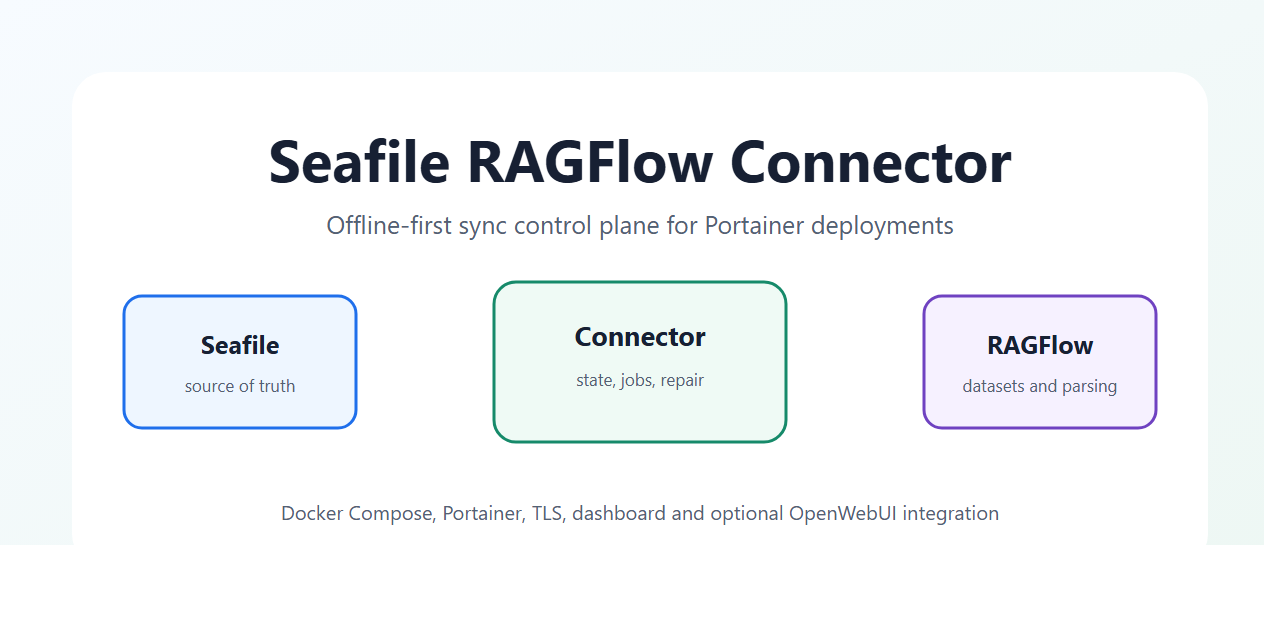
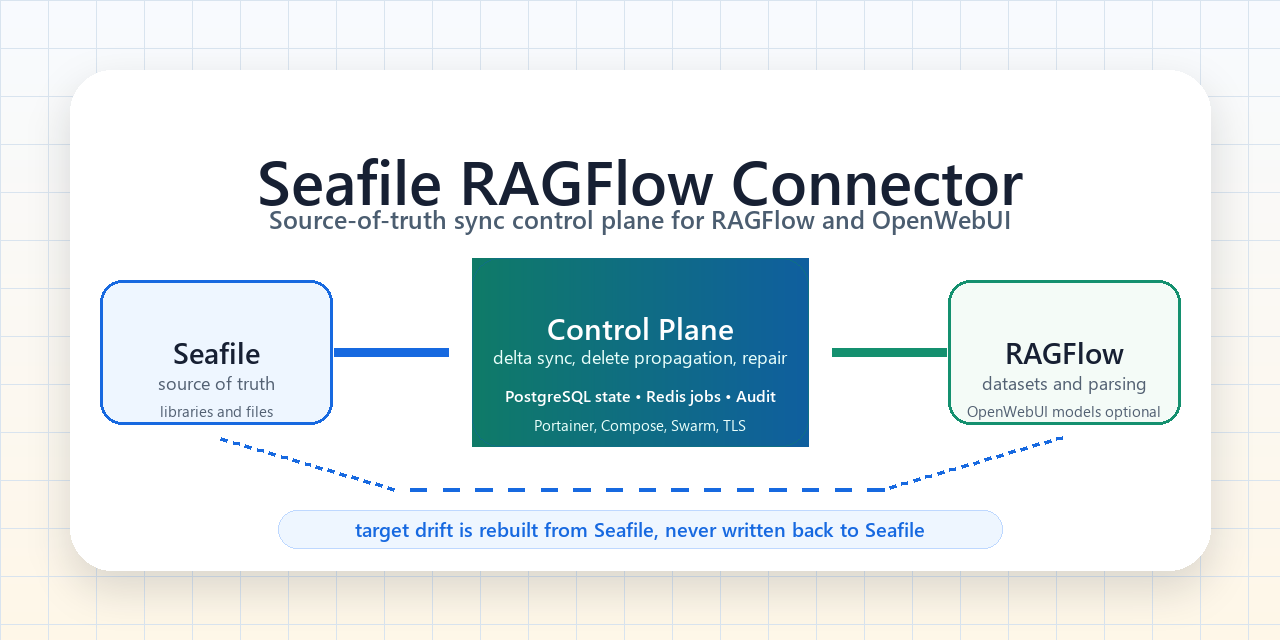
Schaerfe README und Projektvisualisierung

diff --git a/README.md b/README.md
@@ -5,7 +5,8 @@
 <h1 align="center">Seafile RAGFlow Connector</h1>
 
 <p align="center">
-  Offline-fähiger Sync-Orchestrator für bestehende Seafile-, RAGFlow- und optionale OpenWebUI-Umgebungen.
+  Aus Seafile-Libraries werden reproduzierbare RAGFlow-Datasets und optional OpenWebUI Custom Models:
+  mit Delta-Sync, Delete-Propagation, Drift-Repair, TLS, Audit und Portainer-tauglichem Betrieb.
 </p>
 
 <p align="center">
@@ -20,17 +21,17 @@
 
 ## Überblick
 
-Der Seafile RAGFlow Connector betreibt eine eigene Control Plane zwischen einem
-bestehenden Seafile-Server und einem bestehenden RAGFlow-Server. Seafile bleibt
-die Quelle der Wahrheit. Der Connector entdeckt Libraries, erzeugt pro Library
-ein RAGFlow-Dataset aus einem `connector_template`, importiert Dateien, erkennt
-Änderungen, löscht entfernte Zielartefakte kontrolliert und repariert Drift aus
-Seafile heraus.
+Der Connector ist keine dünne Upload-Schleife. Er ist eine eigenständige
+Sync-Control-Plane für Umgebungen, in denen Seafile die Dokumentenquelle bleibt
+und RAGFlow daraus zuverlässig nutzbare Knowledge-Datasets bekommt.
 
-Optional synchronisiert der Connector RAGFlow-Chats, OpenWebUI-Tools und
-OpenWebUI-Pipes, damit RAGFlow-Datasets in OpenWebUI als Custom Models genutzt
-werden können. Seafile, RAGFlow und OpenWebUI werden dabei nicht ersetzt,
-sondern als externe Systeme angebunden.
+Für jede Seafile-Library kann der Connector ein RAGFlow-Dataset aus einem
+Template erzeugen, Dateien inkrementell importieren, entfernte Dateien und
+Libraries kontrolliert in den Zielsystemen nachvollziehen und verlorene oder
+extern gelöschte Zielartefakte wieder aus Seafile aufbauen. OpenWebUI kann
+additiv angebunden werden: pro Dataset entstehen deterministische RAGFlow-Chats,
+Tools und Pipes, sodass die Inhalte als Custom Models nutzbar werden, ohne
+RAGFlow-Secrets in OpenWebUI-Funktionen abzulegen.
 
 ## Quick Links
 
@@ -44,25 +45,32 @@ sondern als externe Systeme angebunden.
 | Entwicklung | [Entwicklungschecks](#entwicklung) und [Tests](docs/testing.md) |
 | Mitarbeit | [CONTRIBUTING.md](CONTRIBUTING.md), [Security Policy](SECURITY.md), [Support](SUPPORT.md) |
 
-## Kernprinzipien
+## Was dieses Repository besonders macht
 
-- Die Seafile API ist die Quelle der Wahrheit.
-- Die RAGFlow API und optional OpenWebUI sind Zielsysteme.
-- Seafile wird nie geändert, nur weil Zielartefakte in RAGFlow oder OpenWebUI fehlen, gelöscht wurden oder driften.
-- Entfernte Seafile-Dateien und -Libraries werden in den Zielsystemen nachvollzogen.
-- Extern gelöschte RAGFlow- oder OpenWebUI-Artefakte werden aus Seafile und dem lokalen Connector-State repariert.
-- PostgreSQL speichert den dauerhaften Sync-Zustand.
-- Redis übernimmt Queueing, Retries und Backpressure.
-- RAGFlow-Dataset-Einstellungen bleiben nach der Erstellung live. Das Template wird nur für neue Datasets genutzt.
-- Der Runtime-Betrieb ist offline-fähig: keine Paket-Downloads, keine Telemetrie und keine externen Service-Abhängigkeiten außerhalb der konfigurierten Seafile-, RAGFlow- und optionalen OpenWebUI-URLs.
+| Bereich | Was der Connector leistet |
+| --- | --- |
+| Source of truth | Seafile bleibt maßgeblich. Zielsystem-Drift wird repariert, nicht nach Seafile zurückgeschrieben. |
+| Dataset-Lifecycle | Libraries werden entdeckt, Datasets aus `connector_template` erzeugt, Dokumente importiert und Parse-Läufe angestoßen. |
+| Delta und Delete | Änderungen, entfernte Dateien und gelöschte Libraries werden nachvollziehbar in RAGFlow und optional OpenWebUI propagiert. |
+| Repair statt Fragilität | Extern gelöschte RAGFlow-Datasets, Dokumente, Chats, Tools oder Pipes werden aus State und Seafile wieder aufgebaut. |
+| OpenWebUI | Datasets können als Custom Models erscheinen; Tool und Pipe nutzen einen Connector-Proxy statt eingebetteter RAGFlow-Secrets. |
+| Betrieb | PostgreSQL-State, Redis-Jobs, Dashboard, Health, Metriken, Excel-Audit-Export, TLS/CA-Bundles, GHCR, Portainer, Compose und Swarm. |
 
 ## Architektur
 
-```text
-Seafile API -> controller -> PostgreSQL state -> Redis jobs -> workers -> RAGFlow API
-                         \-> reconciler ------------------------/
-                         \-> OpenWebUI sync -> OpenWebUI API
-                         \-> HTTP proxy ----> RAGFlow API
+```mermaid
+flowchart LR
+    S["Seafile<br/>Libraries, folders, files"] --> C["connector-controller<br/>discovery, scheduling, dashboard"]
+    C --> DB[("PostgreSQL<br/>sync state")]
+    C --> Q[("Redis<br/>jobs, retries")]
+    Q --> W["connector-worker<br/>download, classify, upload, parse"]
+    W --> R["RAGFlow<br/>datasets and documents"]
+    C --> O["OpenWebUI sync<br/>chats, tools, pipes"]
+    O --> OW["OpenWebUI<br/>custom models"]
+    OW --> P["Connector proxy<br/>query, chat, citations"]
+    P --> R
+    R -. "drift detected" .-> RC["connector-reconciler"]
+    RC -. "rebuild from Seafile" .-> C
 ```
 
 | Komponente | Aufgabe |
@@ -77,19 +85,28 @@ Seafile API -> controller -> PostgreSQL state -> Redis jobs -> workers -> RAGFlo
 
 Mehr Details stehen in [docs/architecture.md](docs/architecture.md).
 
-## Features
+## Funktionsumfang
 
-- Seafile-Library-Discovery über Admin-API.
-- RAGFlow-Dataset-Erzeugung aus einem vorhandenen Template-Dataset.
-- Delta-Sync, Delete-Propagation und Drift-Reparatur.
-- Textartefakt-Erzeugung für unterstützte und textbasierte Dateiformate.
-- Wiederholbare Jobs mit Redis, PostgreSQL-State und konservativer Retry-Logik.
-- Lesendes Dashboard mit Health, Sync-Historie, Logs, Diagnose und Excel-Audit-Export.
-- Optionale OpenWebUI-Integration mit deterministischen Tools, Pipes und Custom-Model-Namen.
-- TLS-/CA-Bundle-Konfiguration für Seafile, RAGFlow, OpenWebUI und Connector-Proxy.
-- Portainer-, Docker-Compose- und Docker-Swarm-Artefakte.
-- Lokales TLS-Lab und `.top.secret`-Compose-Runbook für Windows-/WSL-Prüfungen.
-- CI für Linting, Typechecking und Tests sowie Docker-Image-Build/Publish nach GHCR.
+| Funktion | Details |
+| --- | --- |
+| Seafile Discovery | Library-Discovery über Admin-API, rekursive Datei-Iteration, Download-Rewrite für unterschiedliche Netzwerkpfade. |
+| RAGFlow Provisioning | Dataset-Erzeugung aus `connector_template`, Erhalt live geänderter Dataset-Einstellungen, Upload und Parse-Steuerung. |
+| Sync und Cleanup | Delta-Sync, Full-Sync, Delete-Propagation, orphan cleanup, Schutz vor unklaren Fremdartefakten. |
+| Drift Repair | Wiederaufbau fehlender Datasets und Dokumente aus Seafile, Reparatur eigener OpenWebUI-Artefakte. |
+| OpenWebUI Integration | deterministische Chats, Tools, Pipes, Custom-Model-Namen, Quellen/Citations und optionaler Preview-Viewer. |
+| Dashboard und Audit | Health, Sync-Historie, Änderungen, Logs, Diagnose, TLS-Status und Excel-Audit-Export ohne Dateiinhaltsexfiltration. |
+| Deployment | GHCR-Image, Portainer-Stack, direkte Compose-Varianten, Shared-Network-Modus, Swarm-Stack und Offline-Image-Workflow. |
+| TLS und Betrieb | interne CAs, mTLS-Dateien, `.top.secret`-Lab, lokale HTTPS-Mocks und Troubleshooting für Zertifikatsketten. |
+| Qualität | Ruff, mypy strict, pytest, unittest, CodeQL, Docker-Build-Workflow und Dependabot. |
+
+## Leitplanken
+
+- Seafile wird nie geändert, nur weil RAGFlow oder OpenWebUI driften.
+- Der Connector löscht nur eigene, eindeutig zuordenbare Zielartefakte.
+- RAGFlow-Dataset-Einstellungen bleiben nach der Erstellung live; das Template wird nur für neue Datasets genutzt.
+- OpenWebUI-Funktionen bekommen keine RAGFlow-Admin-Secrets, sondern sprechen mit dem Connector-Proxy.
+- Der Runtime-Betrieb ist offline-fähig: keine Telemetrie und keine externen Service-Abhängigkeiten außerhalb der konfigurierten Zielsysteme.
+- Das Dashboard ist lesend; Schreib- und Löschaktionen laufen über explizite CLI-/Runtime-Pfade.
 
 ## Voraussetzungen
 